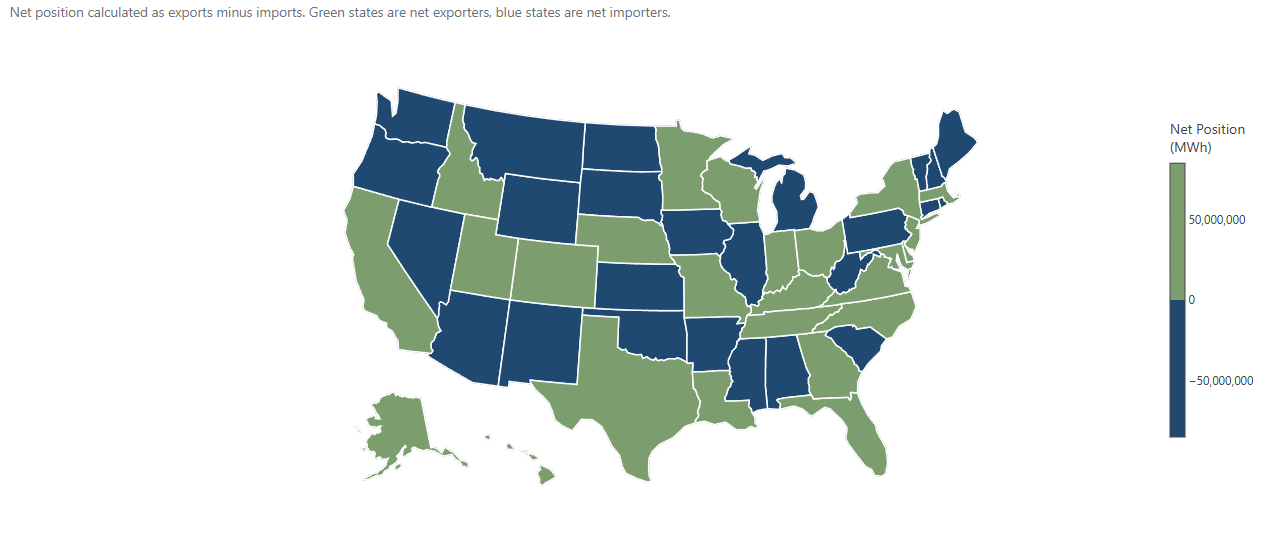
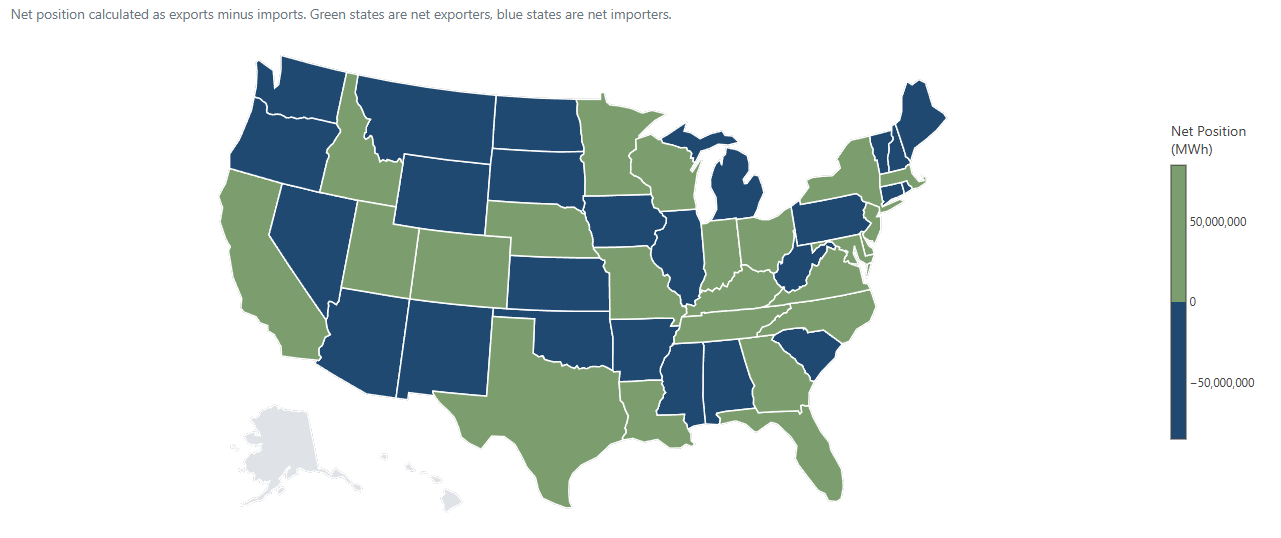
update state color map midpoint to gray

diff --git a/static/js/state-comparison-charts.js b/static/js/state-comparison-charts.js
@@ -9,6 +9,7 @@ if (!yearSelect || typeof Plotly === "undefined") {
   // Color palette 
   const DARK_BLUE = "#1f4970";
   const GREEN = "#7c9e6e";
+  const GRAY = "#dfe2e6";
 
   const plotCfg = {
     responsive: true,
@@ -128,7 +129,8 @@ if (!yearSelect || typeof Plotly === "undefined") {
         colorscale: [
           [0, DARK_BLUE],
           [0.4999, DARK_BLUE],
-          [0.5, GREEN],
+          [0.5, GRAY],
+          [0.5001, GREEN],
           [1, GREEN]
         ],
         colorbar: {